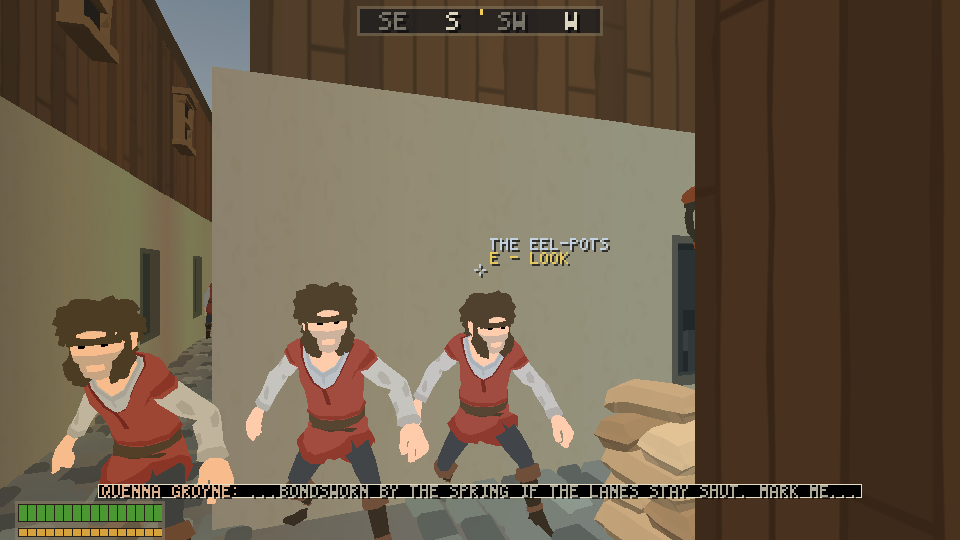
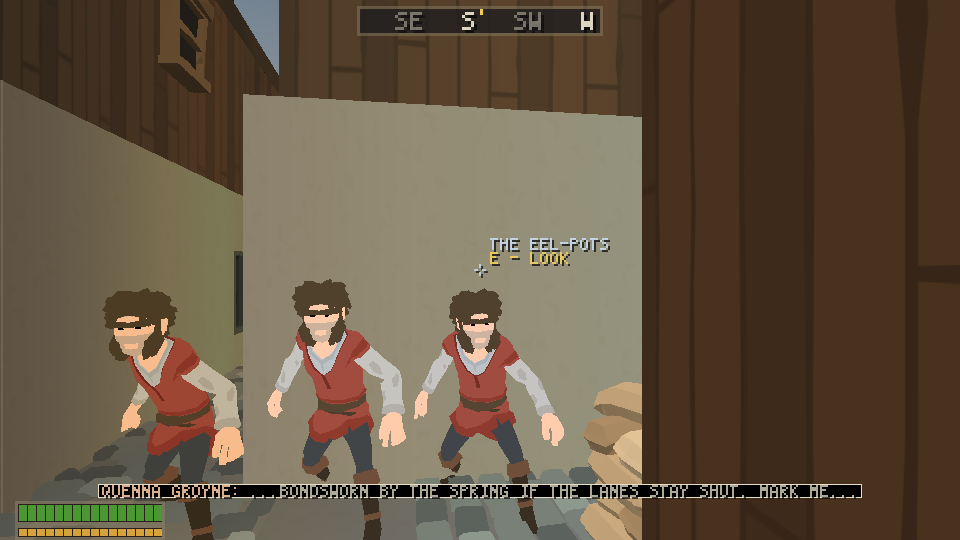
wip(voice): frames reshot off the gated 36411ac4 exe, the README's commit and cadence

diff --git a/docs/frames/voice/README.md b/docs/frames/voice/README.md
@@ -1,7 +1,7 @@
 # The street talks
 
 Every frame in here is the real `dist\granadad.exe` on the gated Windows build (branch
-`lane/voice`, commit `1e5208c3`), playing the voice channel through the real verbs. Nothing
+`lane/voice`, commit `36411ac4`), playing the voice channel through the real verbs. Nothing
 is staged. Each run prints a summary line next to the picture
 (`voice end=... beats=n/N ... key=... speaker="..." row="..."`) and the exact line that shot
 each frame is in the table. A run that fell short says so and can't pass as one that didn't.
@@ -45,7 +45,7 @@ Five channels, ranked. A higher one replaces a lower one on the row. A lower one
 | watch | a watchman's eyes on you crouched or with your hands up, a watchman passing somebody the post has heard of (heat 24 and up) or has paper on, the deference table to a presented Wielder, and the readback as a Closing watchman crosses the room after his halt | `watch.notice` `watch.heat` `watch.paper` `watch.wielder` `watch.approach.<violence\|paper\|goods>` | 5 s on the channel, 20 s per watchman. The readback fires 45 steps after the halt and again at reach |
 | react | a witness's memory moving with Struck, DrewSteel or Slew on it (`SocialLedger::witness`, read by comparing public state, same shape as `lastPlayerHp_`). Never the man in the fight, never a bouncer (his ladder speaks for him), never the Closing watchman (his halt does) | `react.<family>.<struck\|steel\|slew>` | 4 s on the channel, 15 s per witness. A witness who couldn't get the row keeps the right for 4 s |
 | farewell | LEAVE by its topic, the back key, or walking off past five tiles mid talk | `farewell.<type>.<attitude>` and `farewell.away.<family>` | none, it's an event |
-| pass | the nearest body within two tiles, once | `pass.<type>.<attitude>` | 12 s on the channel, 60 s per mouth |
+| pass | the nearest body within two tiles that hasn't spoken to you lately, once | `pass.<type>.<attitude>` | 12 s on the channel, 2 min per mouth |
 | overheard | two bodies standing together within six tiles and a sight line. The room when you're inside, the street when you're out | `overheard.<family>` | 24 s on the channel, 90 s per mouth |
 
 Ambient lines (pass, overheard) also wait eight seconds past the end of any event line. A line
